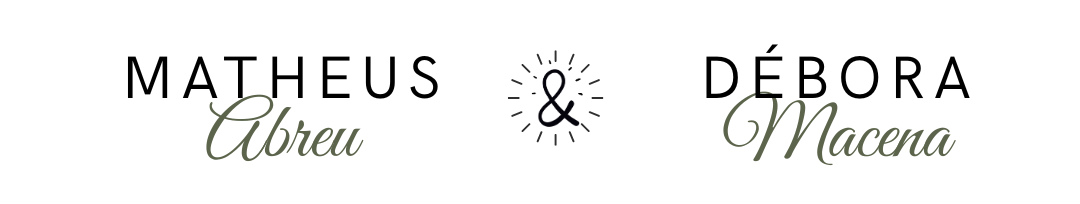
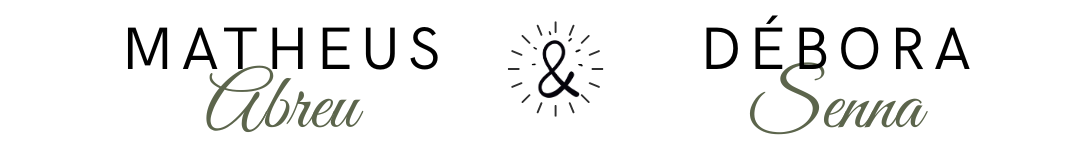
corrigi Senna e espaçamento

diff --git a/src/App.jsx b/src/App.jsx
@@ -30,7 +30,7 @@ function App() {
           <p className="font-rubik">2026</p>
         </div>
 
-        <img className="max-h-8" src="/flecha.png" alt="" />
+        <img className="max-h-8 mt-2 mb-2" src="/flecha.png" alt="" />
         <img src="/matdeba.png" alt="" />
       </div>
 
